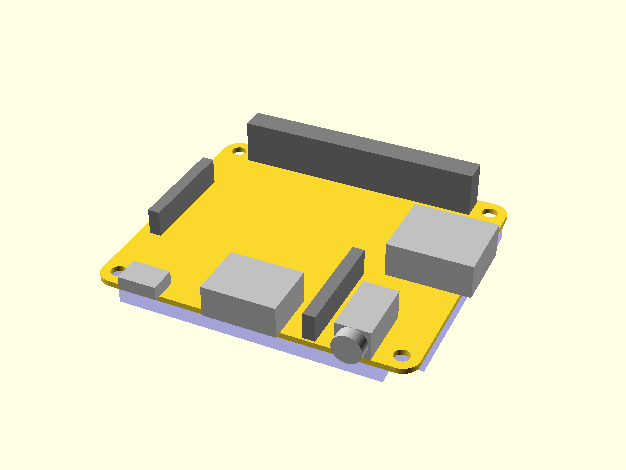
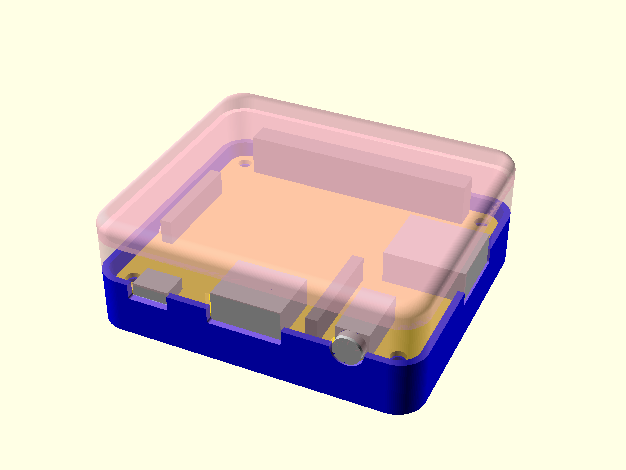
added lid and render to README

diff --git a/render.py b/render.py
@@ -14,6 +14,9 @@ def render():
 	start = time.time()
 
 	scad = []
+	# plain image
+	scad.append(subprocess.Popen(['openscad','raspberry-pi-3-model-a-plus.scad','-o','raspberry-pi-3-model-a-plus.png','--preview','--imgsize=626,470']))
+
 	scad.append(subprocess.Popen(['openscad','raspberry-pi-3-model-a-plus.scad','-o','raspberry-pi-3-model-a-plus.stl','-D', 'part=1']))
 	scad.append(subprocess.Popen(['openscad','raspberry-pi-3-model-a-plus.scad','-o','raspberry-pi-3-model-a-plus.png','-D', 'part=1','--preview','--imgsize=626,470']))
 

diff --git a/README.md b/README.md
@@ -2,6 +2,14 @@
 
 This is a work in proress... the case hasn't been tested with an actual physical 3A+, as my shippment hasn't arrived yet.
 
+Two Parts & Pi
+
+![OpenSCAD render of case STL](https://raw.githubusercontent.com/thrasher/raspberry-pi-3-model-a-plus/master/raspberry-pi-3-model-a-plus.png)
+
+Lid
+
+![OpenSCAD render of case STL](https://raw.githubusercontent.com/thrasher/raspberry-pi-3-model-a-plus/master/lid.png)
+
 Simple Case
 
 ![OpenSCAD render of case STL](https://raw.githubusercontent.com/thrasher/raspberry-pi-3-model-a-plus/master/case.png)
